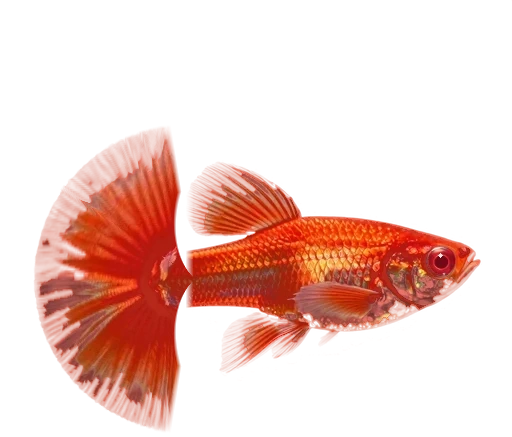
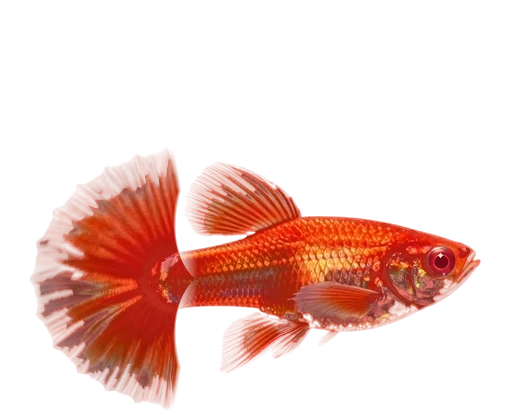
孔雀魚半月尾加鰭條明暗、燕尾上下拉長
半月尾改成橫向較長的扇面，加上鰭條明暗、摺痕和半透明外緣，舊尾巴
根部慢慢淡出，和尾柄的接縫不再是一條硬線。燕尾上下兩端的鰭條拉最長，
全紅白子也看得出燕尾。身體位置照基本款重新換算。

Claude-Session: https://claude.ai/code/session_01KsbS4vLZbfPytVNgNzSz4q

Changed region(s): [[0.0625, 0.2892, 0.9375, 0.9831]]

diff --git a/src/render/painted.ts b/src/render/painted.ts
@@ -83,11 +83,11 @@ export const PAINTED: Record<string, PaintedSpec> = {
 function finArt(): Record<string, PaintedSpec> {
   const bodyY: Record<string, [number, number, number]> = {
     // 花紋：緞帶、燕尾、半月的身體中心 y（相對圖高）
-    bluegrass: [-0.05, -0.086, -0.039],
-    cobra: [-0.05, -0.036, -0.028],
-    'albino-red': [-0.2, 0.173, 0.113],
-    tuxedo: [-0.18, -0.163, -0.096],
-    redcobra: [-0.24, 0.199, 0.111],
+    bluegrass: [-0.05, -0.122, -0.046],
+    cobra: [-0.05, -0.073, -0.034],
+    'albino-red': [-0.2, 0.147, 0.146],
+    tuxedo: [-0.18, -0.159, -0.109],
+    redcobra: [-0.24, 0.167, 0.145],
   };
   const out: Record<string, PaintedSpec> = {};
   for (const [pat, ys] of Object.entries(bodyY)) {
